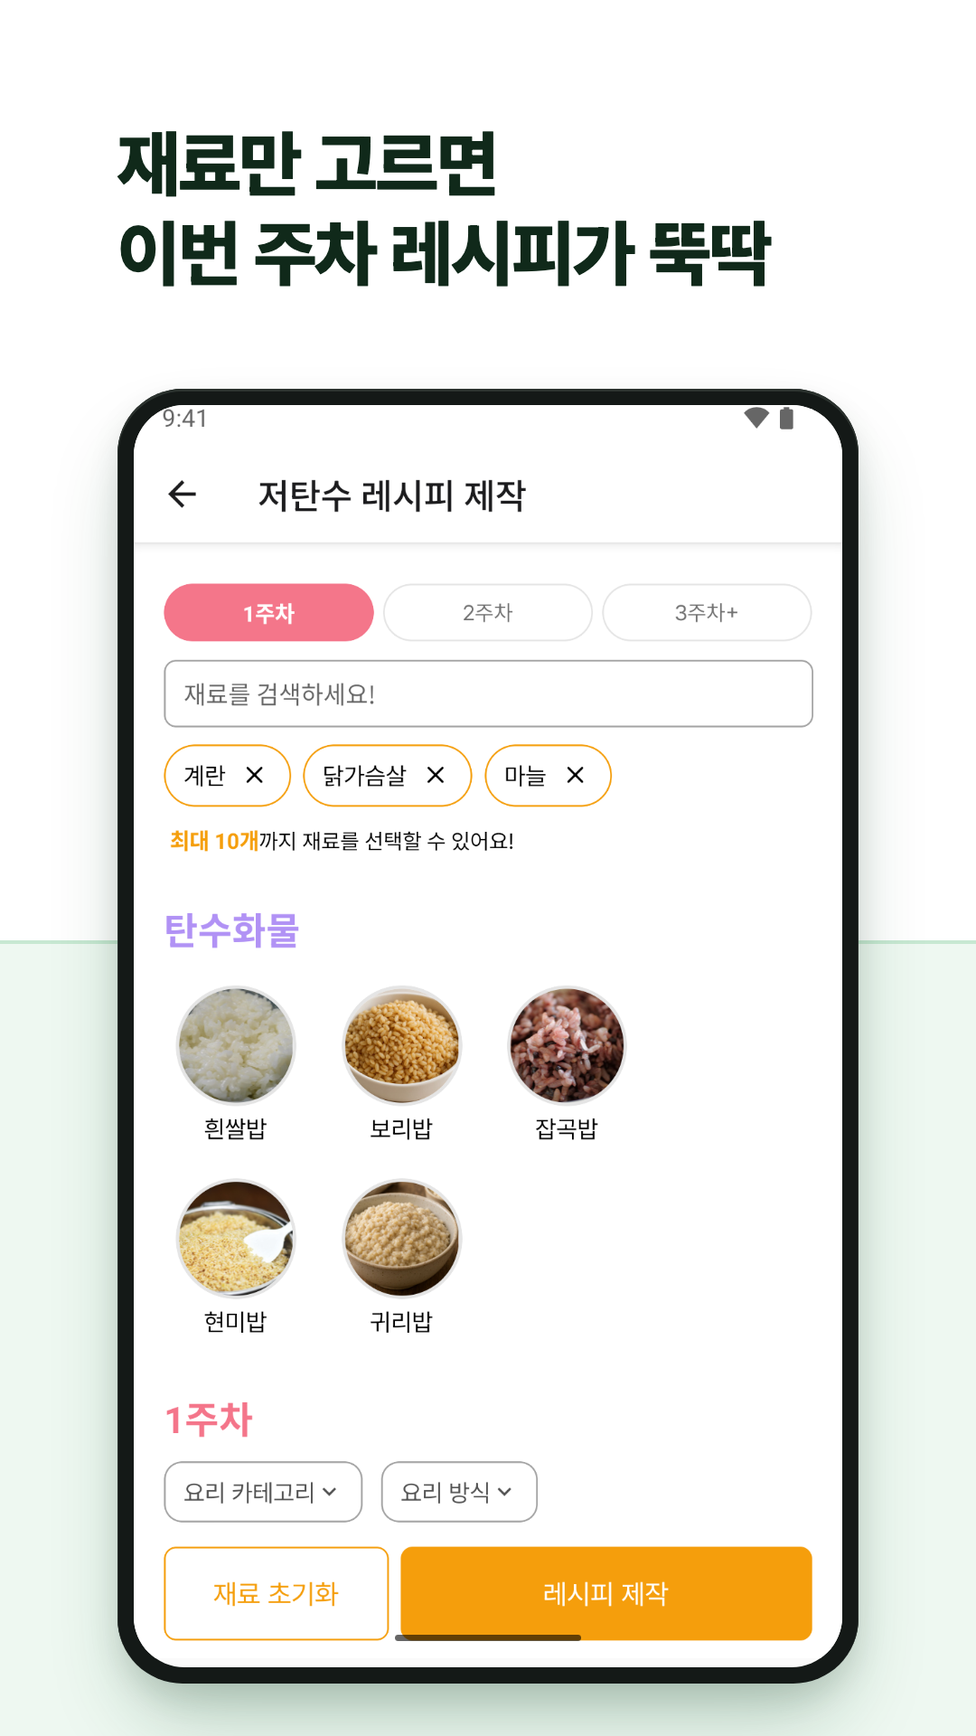
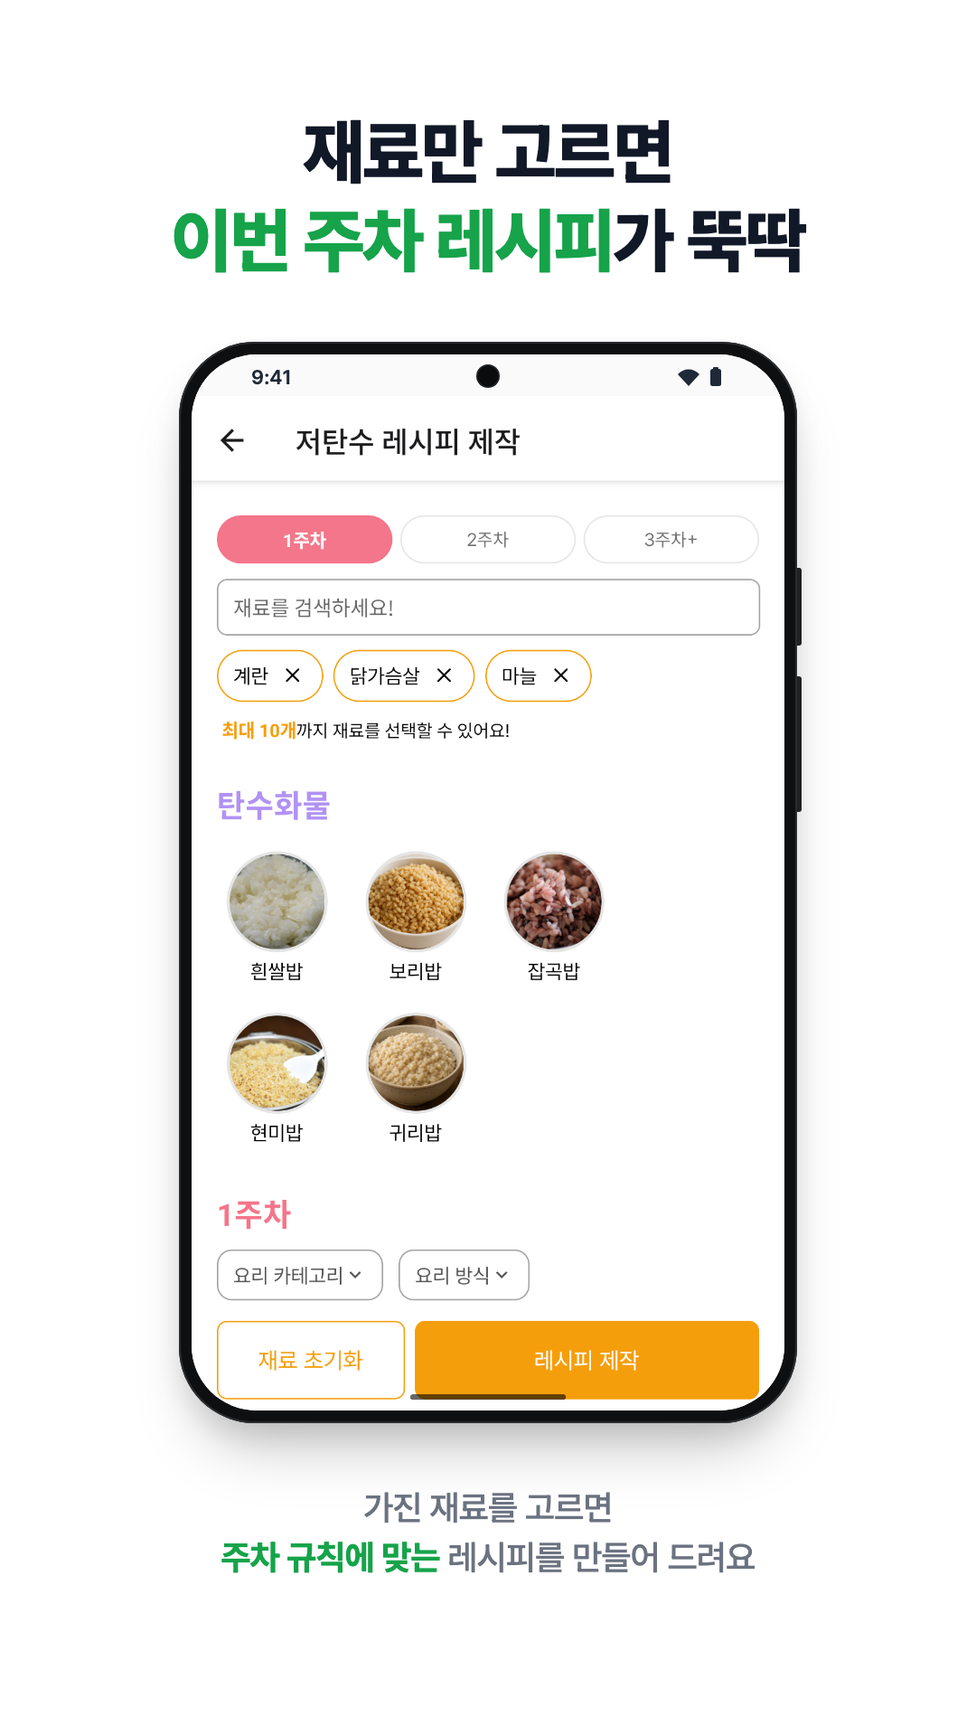
📱 플레이 스토어 휴대전화 스크린샷 6장

Changed region(s): [[0.0611, 0.0625, 0.9167, 1.0], [0.6722, 0.3438, 0.7639, 0.375], [0.6722, 0.2812, 0.7028, 0.3125]]

diff --git a/docs/store/src/phone-6.html b/docs/store/src/phone-6.html
@@ -3,20 +3,29 @@
 <title>스위치온 레시피 스크린샷 6</title>
 <style>
 @font-face{font-family:"Pretendard";src:url("PretendardVariable-Regular.ttf") format("truetype");font-weight:100 900}
-:root{--ink:#10291A;--green:#16A34A;--mint:#EEF8F1;--bezel:#141917}
+:root{--ink:#111827;--green:#16A34A;--gray:#6B7280;--bezel:#0E0F10}
 *{margin:0;padding:0;box-sizing:border-box}
 html,body{width:1080px;height:1920px;overflow:hidden;background:#fff}
-body{font-family:"Pretendard",sans-serif;position:relative;color:var(--ink)}
-.ground{position:absolute;left:0;right:0;top:1040px;bottom:0;background:var(--mint)}
-.ground::before{content:"";position:absolute;left:0;right:0;top:0;height:4px;background:var(--green);opacity:.18}
-h1{position:absolute;left:130px;right:100px;top:132px;font-size:80px;line-height:1.24;font-weight:800;letter-spacing:-.022em;word-break:keep-all}
-.phone{position:absolute;left:130px;top:430px;width:820px;height:1432px;border-radius:72px;background:var(--bezel);padding:18px;
- box-shadow:0 2px 0 1px #2b322e inset,0 50px 90px -20px rgba(16,80,40,.28),0 16px 34px rgba(0,0,0,.10)}
-.screen{width:784px;height:1396px;border-radius:56px;overflow:hidden;background:#fafafa;position:relative}
-.screen img{position:absolute;left:0;top:-8px;width:784px;height:auto;display:block}
+body{font-family:"Pretendard",sans-serif;position:relative;color:var(--ink);text-align:center}
+g{color:var(--green)}
+h1{position:absolute;left:60px;right:60px;top:120px;font-size:78px;line-height:1.26;font-weight:800;letter-spacing:-.025em;word-break:keep-all}
+.phone{position:absolute;left:198px;top:378px;width:684px;height:1196px;border-radius:84px;background:var(--bezel);padding:14px;
+ box-shadow:0 0 0 2px #2a2c2f inset,0 44px 70px -24px rgba(0,0,0,.26),0 14px 28px rgba(0,0,0,.08)}
+.btn{position:absolute;right:-5px;width:5px;background:#1f2123;border-radius:0 3px 3px 0}
+.b1{top:250px;height:86px}.b2{top:370px;height:150px}
+.screen{width:656px;height:1168px;border-radius:72px;overflow:hidden;background:#fafafa;position:relative}
+.screen img{position:absolute;left:0;top:6px;width:656px;height:auto;display:block}
+.sb{position:absolute;left:0;right:0;top:0;height:46px;background:#fafafa;display:flex;align-items:center;justify-content:space-between;padding:4px 64px 0 66px;font-size:22px;font-weight:600;color:#1f2937;letter-spacing:.01em}
+.sb svg{display:block}
+.cam{position:absolute;left:50%;top:13px;width:22px;height:22px;margin-left:-11px;border-radius:50%;background:#0b0c0d;box-shadow:0 0 0 2px #1d1f22}
+p.cap{position:absolute;left:150px;right:150px;top:1640px;font-size:38px;line-height:1.45;font-weight:500;color:var(--gray);letter-spacing:-.015em;word-break:keep-all}
+p.cap g{font-weight:700}
+.card{position:absolute;left:470px;top:1282px;width:500px;height:278px;border-radius:26px;overflow:hidden;background:#fafafa;box-shadow:0 28px 50px -16px rgba(0,0,0,.28),0 6px 16px rgba(0,0,0,.08)}
+.card img{position:absolute;left:-4px;top:-166px;width:516px;height:auto}
 </style></head>
 <body>
-<div class="ground"></div>
-<h1>몸의 변화를<br>한눈에</h1>
-<div class="phone"><div class="screen"><img src="../raw/6-records.png" alt=""></div></div>
+<h1><g>몸의 변화</g>를<br>한눈에</h1>
+<div class="phone"><span class="btn b1"></span><span class="btn b2"></span><div class="screen"><img src="../raw/6-records.png" alt=""><div class="sb"><span>9:41</span><svg width="56" height="22" viewBox="0 0 56 22"><path d="M2 8a16 16 0 0 1 24 0l-12 13z" fill="#1f2937"/><rect x="38" y="2" width="12" height="19" rx="2.5" fill="#1f2937"/><rect x="41" y="0" width="6" height="3" rx="1" fill="#1f2937"/></svg></div><span class="cam"></span></div></div>
+<div class="card"><img src="../raw/6b-calendar.png" alt=""></div>
+<p class="cap">체중 그래프와 <g>4주 완주 달력</g>으로<br>꾸준히 해 온 날을 확인해요</p>
 </body></html>

diff --git a/docs/store/src/phone-2.html b/docs/store/src/phone-2.html
@@ -3,20 +3,29 @@
 <title>스위치온 레시피 스크린샷 2</title>
 <style>
 @font-face{font-family:"Pretendard";src:url("PretendardVariable-Regular.ttf") format("truetype");font-weight:100 900}
-:root{--ink:#10291A;--green:#16A34A;--mint:#EEF8F1;--bezel:#141917}
+:root{--ink:#111827;--green:#16A34A;--gray:#6B7280;--bezel:#0E0F10}
 *{margin:0;padding:0;box-sizing:border-box}
 html,body{width:1080px;height:1920px;overflow:hidden;background:#fff}
-body{font-family:"Pretendard",sans-serif;position:relative;color:var(--ink)}
-.ground{position:absolute;left:0;right:0;top:1040px;bottom:0;background:var(--mint)}
-.ground::before{content:"";position:absolute;left:0;right:0;top:0;height:4px;background:var(--green);opacity:.18}
-h1{position:absolute;left:130px;right:100px;top:132px;font-size:80px;line-height:1.24;font-weight:800;letter-spacing:-.022em;word-break:keep-all}
-.phone{position:absolute;left:130px;top:430px;width:820px;height:1432px;border-radius:72px;background:var(--bezel);padding:18px;
- box-shadow:0 2px 0 1px #2b322e inset,0 50px 90px -20px rgba(16,80,40,.28),0 16px 34px rgba(0,0,0,.10)}
-.screen{width:784px;height:1396px;border-radius:56px;overflow:hidden;background:#fafafa;position:relative}
-.screen img{position:absolute;left:0;top:-8px;width:784px;height:auto;display:block}
+body{font-family:"Pretendard",sans-serif;position:relative;color:var(--ink);text-align:center}
+g{color:var(--green)}
+h1{position:absolute;left:60px;right:60px;top:120px;font-size:78px;line-height:1.26;font-weight:800;letter-spacing:-.025em;word-break:keep-all}
+.phone{position:absolute;left:198px;top:378px;width:684px;height:1196px;border-radius:84px;background:var(--bezel);padding:14px;
+ box-shadow:0 0 0 2px #2a2c2f inset,0 44px 70px -24px rgba(0,0,0,.26),0 14px 28px rgba(0,0,0,.08)}
+.btn{position:absolute;right:-5px;width:5px;background:#1f2123;border-radius:0 3px 3px 0}
+.b1{top:250px;height:86px}.b2{top:370px;height:150px}
+.screen{width:656px;height:1168px;border-radius:72px;overflow:hidden;background:#fafafa;position:relative}
+.screen img{position:absolute;left:0;top:6px;width:656px;height:auto;display:block}
+.sb{position:absolute;left:0;right:0;top:0;height:46px;background:#fafafa;display:flex;align-items:center;justify-content:space-between;padding:4px 64px 0 66px;font-size:22px;font-weight:600;color:#1f2937;letter-spacing:.01em}
+.sb svg{display:block}
+.cam{position:absolute;left:50%;top:13px;width:22px;height:22px;margin-left:-11px;border-radius:50%;background:#0b0c0d;box-shadow:0 0 0 2px #1d1f22}
+p.cap{position:absolute;left:150px;right:150px;top:1640px;font-size:38px;line-height:1.45;font-weight:500;color:var(--gray);letter-spacing:-.015em;word-break:keep-all}
+p.cap g{font-weight:700}
+.card{position:absolute;left:470px;top:1282px;width:500px;height:278px;border-radius:26px;overflow:hidden;background:#fafafa;box-shadow:0 28px 50px -16px rgba(0,0,0,.28),0 6px 16px rgba(0,0,0,.08)}
+.card img{position:absolute;left:-4px;top:-166px;width:516px;height:auto}
 </style></head>
 <body>
-<div class="ground"></div>
-<h1>재료만 고르면<br>이번 주차 레시피가 뚝딱</h1>
-<div class="phone"><div class="screen"><img src="../raw/2-ingredients.png" alt=""></div></div>
+<h1>재료만 고르면<br><g>이번 주차 레시피</g>가 뚝딱</h1>
+<div class="phone"><span class="btn b1"></span><span class="btn b2"></span><div class="screen"><img src="../raw/2-ingredients.png" alt=""><div class="sb"><span>9:41</span><svg width="56" height="22" viewBox="0 0 56 22"><path d="M2 8a16 16 0 0 1 24 0l-12 13z" fill="#1f2937"/><rect x="38" y="2" width="12" height="19" rx="2.5" fill="#1f2937"/><rect x="41" y="0" width="6" height="3" rx="1" fill="#1f2937"/></svg></div><span class="cam"></span></div></div>
+
+<p class="cap">가진 재료를 고르면<br><g>주차 규칙에 맞는</g> 레시피를 만들어 드려요</p>
 </body></html>

diff --git a/docs/store/src/phone-1.html b/docs/store/src/phone-1.html
@@ -3,20 +3,29 @@
 <title>스위치온 레시피 스크린샷 1</title>
 <style>
 @font-face{font-family:"Pretendard";src:url("PretendardVariable-Regular.ttf") format("truetype");font-weight:100 900}
-:root{--ink:#10291A;--green:#16A34A;--mint:#EEF8F1;--bezel:#141917}
+:root{--ink:#111827;--green:#16A34A;--gray:#6B7280;--bezel:#0E0F10}
 *{margin:0;padding:0;box-sizing:border-box}
 html,body{width:1080px;height:1920px;overflow:hidden;background:#fff}
-body{font-family:"Pretendard",sans-serif;position:relative;color:var(--ink)}
-.ground{position:absolute;left:0;right:0;top:1040px;bottom:0;background:var(--mint)}
-.ground::before{content:"";position:absolute;left:0;right:0;top:0;height:4px;background:var(--green);opacity:.18}
-h1{position:absolute;left:130px;right:100px;top:132px;font-size:80px;line-height:1.24;font-weight:800;letter-spacing:-.022em;word-break:keep-all}
-.phone{position:absolute;left:130px;top:430px;width:820px;height:1432px;border-radius:72px;background:var(--bezel);padding:18px;
- box-shadow:0 2px 0 1px #2b322e inset,0 50px 90px -20px rgba(16,80,40,.28),0 16px 34px rgba(0,0,0,.10)}
-.screen{width:784px;height:1396px;border-radius:56px;overflow:hidden;background:#fafafa;position:relative}
-.screen img{position:absolute;left:0;top:-8px;width:784px;height:auto;display:block}
+body{font-family:"Pretendard",sans-serif;position:relative;color:var(--ink);text-align:center}
+g{color:var(--green)}
+h1{position:absolute;left:60px;right:60px;top:120px;font-size:78px;line-height:1.26;font-weight:800;letter-spacing:-.025em;word-break:keep-all}
+.phone{position:absolute;left:198px;top:378px;width:684px;height:1196px;border-radius:84px;background:var(--bezel);padding:14px;
+ box-shadow:0 0 0 2px #2a2c2f inset,0 44px 70px -24px rgba(0,0,0,.26),0 14px 28px rgba(0,0,0,.08)}
+.btn{position:absolute;right:-5px;width:5px;background:#1f2123;border-radius:0 3px 3px 0}
+.b1{top:250px;height:86px}.b2{top:370px;height:150px}
+.screen{width:656px;height:1168px;border-radius:72px;overflow:hidden;background:#fafafa;position:relative}
+.screen img{position:absolute;left:0;top:6px;width:656px;height:auto;display:block}
+.sb{position:absolute;left:0;right:0;top:0;height:46px;background:#fafafa;display:flex;align-items:center;justify-content:space-between;padding:4px 64px 0 66px;font-size:22px;font-weight:600;color:#1f2937;letter-spacing:.01em}
+.sb svg{display:block}
+.cam{position:absolute;left:50%;top:13px;width:22px;height:22px;margin-left:-11px;border-radius:50%;background:#0b0c0d;box-shadow:0 0 0 2px #1d1f22}
+p.cap{position:absolute;left:150px;right:150px;top:1640px;font-size:38px;line-height:1.45;font-weight:500;color:var(--gray);letter-spacing:-.015em;word-break:keep-all}
+p.cap g{font-weight:700}
+.card{position:absolute;left:470px;top:1282px;width:500px;height:278px;border-radius:26px;overflow:hidden;background:#fafafa;box-shadow:0 28px 50px -16px rgba(0,0,0,.28),0 6px 16px rgba(0,0,0,.08)}
+.card img{position:absolute;left:-4px;top:-166px;width:516px;height:auto}
 </style></head>
 <body>
-<div class="ground"></div>
-<h1>스위치온 4주,<br>오늘 할 일만 따라오세요</h1>
-<div class="phone"><div class="screen"><img src="../raw/1-today.png" alt=""></div></div>
+<h1>스위치온 4주,<br><g>오늘 할 일</g>만 따라오세요</h1>
+<div class="phone"><span class="btn b1"></span><span class="btn b2"></span><div class="screen"><img src="../raw/1-today.png" alt=""><div class="sb"><span>9:41</span><svg width="56" height="22" viewBox="0 0 56 22"><path d="M2 8a16 16 0 0 1 24 0l-12 13z" fill="#1f2937"/><rect x="38" y="2" width="12" height="19" rx="2.5" fill="#1f2937"/><rect x="41" y="0" width="6" height="3" rx="1" fill="#1f2937"/></svg></div><span class="cam"></span></div></div>
+
+<p class="cap">프로틴쉐이크부터 체중 기록까지<br><g>하루 할 일</g>을 한 화면에서 챙겨요</p>
 </body></html>

diff --git a/docs/store/src/phone-4.html b/docs/store/src/phone-4.html
@@ -3,20 +3,29 @@
 <title>스위치온 레시피 스크린샷 4</title>
 <style>
 @font-face{font-family:"Pretendard";src:url("PretendardVariable-Regular.ttf") format("truetype");font-weight:100 900}
-:root{--ink:#10291A;--green:#16A34A;--mint:#EEF8F1;--bezel:#141917}
+:root{--ink:#111827;--green:#16A34A;--gray:#6B7280;--bezel:#0E0F10}
 *{margin:0;padding:0;box-sizing:border-box}
 html,body{width:1080px;height:1920px;overflow:hidden;background:#fff}
-body{font-family:"Pretendard",sans-serif;position:relative;color:var(--ink)}
-.ground{position:absolute;left:0;right:0;top:1040px;bottom:0;background:var(--mint)}
-.ground::before{content:"";position:absolute;left:0;right:0;top:0;height:4px;background:var(--green);opacity:.18}
-h1{position:absolute;left:130px;right:100px;top:132px;font-size:80px;line-height:1.24;font-weight:800;letter-spacing:-.022em;word-break:keep-all}
-.phone{position:absolute;left:130px;top:430px;width:820px;height:1432px;border-radius:72px;background:var(--bezel);padding:18px;
- box-shadow:0 2px 0 1px #2b322e inset,0 50px 90px -20px rgba(16,80,40,.28),0 16px 34px rgba(0,0,0,.10)}
-.screen{width:784px;height:1396px;border-radius:56px;overflow:hidden;background:#fafafa;position:relative}
-.screen img{position:absolute;left:0;top:-8px;width:784px;height:auto;display:block}
+body{font-family:"Pretendard",sans-serif;position:relative;color:var(--ink);text-align:center}
+g{color:var(--green)}
+h1{position:absolute;left:60px;right:60px;top:120px;font-size:78px;line-height:1.26;font-weight:800;letter-spacing:-.025em;word-break:keep-all}
+.phone{position:absolute;left:198px;top:378px;width:684px;height:1196px;border-radius:84px;background:var(--bezel);padding:14px;
+ box-shadow:0 0 0 2px #2a2c2f inset,0 44px 70px -24px rgba(0,0,0,.26),0 14px 28px rgba(0,0,0,.08)}
+.btn{position:absolute;right:-5px;width:5px;background:#1f2123;border-radius:0 3px 3px 0}
+.b1{top:250px;height:86px}.b2{top:370px;height:150px}
+.screen{width:656px;height:1168px;border-radius:72px;overflow:hidden;background:#fafafa;position:relative}
+.screen img{position:absolute;left:0;top:6px;width:656px;height:auto;display:block}
+.sb{position:absolute;left:0;right:0;top:0;height:46px;background:#fafafa;display:flex;align-items:center;justify-content:space-between;padding:4px 64px 0 66px;font-size:22px;font-weight:600;color:#1f2937;letter-spacing:.01em}
+.sb svg{display:block}
+.cam{position:absolute;left:50%;top:13px;width:22px;height:22px;margin-left:-11px;border-radius:50%;background:#0b0c0d;box-shadow:0 0 0 2px #1d1f22}
+p.cap{position:absolute;left:150px;right:150px;top:1640px;font-size:38px;line-height:1.45;font-weight:500;color:var(--gray);letter-spacing:-.015em;word-break:keep-all}
+p.cap g{font-weight:700}
+.card{position:absolute;left:470px;top:1282px;width:500px;height:278px;border-radius:26px;overflow:hidden;background:#fafafa;box-shadow:0 28px 50px -16px rgba(0,0,0,.28),0 6px 16px rgba(0,0,0,.08)}
+.card img{position:absolute;left:-4px;top:-166px;width:516px;height:auto}
 </style></head>
 <body>
-<div class="ground"></div>
-<h1>먹어도 될까?<br>사진 한 장이면 알려줘요</h1>
-<div class="phone"><div class="screen"><img src="../raw/4-food-check.png" alt=""></div></div>
+<h1>먹어도 될까?<br><g>사진 한 장</g>이면 알려줘요</h1>
+<div class="phone"><span class="btn b1"></span><span class="btn b2"></span><div class="screen"><img src="../raw/4-food-check.png" alt=""><div class="sb"><span>9:41</span><svg width="56" height="22" viewBox="0 0 56 22"><path d="M2 8a16 16 0 0 1 24 0l-12 13z" fill="#1f2937"/><rect x="38" y="2" width="12" height="19" rx="2.5" fill="#1f2937"/><rect x="41" y="0" width="6" height="3" rx="1" fill="#1f2937"/></svg></div><span class="cam"></span></div></div>
+
+<p class="cap">음식 사진이나 이름으로<br><g>점수와 이유</g>, 대신 먹을 음식까지</p>
 </body></html>

diff --git a/docs/store/src/phone-5.html b/docs/store/src/phone-5.html
@@ -3,20 +3,29 @@
 <title>스위치온 레시피 스크린샷 5</title>
 <style>
 @font-face{font-family:"Pretendard";src:url("PretendardVariable-Regular.ttf") format("truetype");font-weight:100 900}
-:root{--ink:#10291A;--green:#16A34A;--mint:#EEF8F1;--bezel:#141917}
+:root{--ink:#111827;--green:#16A34A;--gray:#6B7280;--bezel:#0E0F10}
 *{margin:0;padding:0;box-sizing:border-box}
 html,body{width:1080px;height:1920px;overflow:hidden;background:#fff}
-body{font-family:"Pretendard",sans-serif;position:relative;color:var(--ink)}
-.ground{position:absolute;left:0;right:0;top:1040px;bottom:0;background:var(--mint)}
-.ground::before{content:"";position:absolute;left:0;right:0;top:0;height:4px;background:var(--green);opacity:.18}
-h1{position:absolute;left:130px;right:100px;top:132px;font-size:80px;line-height:1.24;font-weight:800;letter-spacing:-.022em;word-break:keep-all}
-.phone{position:absolute;left:130px;top:430px;width:820px;height:1432px;border-radius:72px;background:var(--bezel);padding:18px;
- box-shadow:0 2px 0 1px #2b322e inset,0 50px 90px -20px rgba(16,80,40,.28),0 16px 34px rgba(0,0,0,.10)}
-.screen{width:784px;height:1396px;border-radius:56px;overflow:hidden;background:#fafafa;position:relative}
-.screen img{position:absolute;left:0;top:-8px;width:784px;height:auto;display:block}
+body{font-family:"Pretendard",sans-serif;position:relative;color:var(--ink);text-align:center}
+g{color:var(--green)}
+h1{position:absolute;left:60px;right:60px;top:120px;font-size:78px;line-height:1.26;font-weight:800;letter-spacing:-.025em;word-break:keep-all}
+.phone{position:absolute;left:198px;top:378px;width:684px;height:1196px;border-radius:84px;background:var(--bezel);padding:14px;
+ box-shadow:0 0 0 2px #2a2c2f inset,0 44px 70px -24px rgba(0,0,0,.26),0 14px 28px rgba(0,0,0,.08)}
+.btn{position:absolute;right:-5px;width:5px;background:#1f2123;border-radius:0 3px 3px 0}
+.b1{top:250px;height:86px}.b2{top:370px;height:150px}
+.screen{width:656px;height:1168px;border-radius:72px;overflow:hidden;background:#fafafa;position:relative}
+.screen img{position:absolute;left:0;top:6px;width:656px;height:auto;display:block}
+.sb{position:absolute;left:0;right:0;top:0;height:46px;background:#fafafa;display:flex;align-items:center;justify-content:space-between;padding:4px 64px 0 66px;font-size:22px;font-weight:600;color:#1f2937;letter-spacing:.01em}
+.sb svg{display:block}
+.cam{position:absolute;left:50%;top:13px;width:22px;height:22px;margin-left:-11px;border-radius:50%;background:#0b0c0d;box-shadow:0 0 0 2px #1d1f22}
+p.cap{position:absolute;left:150px;right:150px;top:1640px;font-size:38px;line-height:1.45;font-weight:500;color:var(--gray);letter-spacing:-.015em;word-break:keep-all}
+p.cap g{font-weight:700}
+.card{position:absolute;left:470px;top:1282px;width:500px;height:278px;border-radius:26px;overflow:hidden;background:#fafafa;box-shadow:0 28px 50px -16px rgba(0,0,0,.28),0 6px 16px rgba(0,0,0,.08)}
+.card img{position:absolute;left:-4px;top:-166px;width:516px;height:auto}
 </style></head>
 <body>
-<div class="ground"></div>
-<h1>한 주를 정리해<br>다음 주 할 일까지</h1>
-<div class="phone"><div class="screen"><img src="../raw/5-weekly-report.png" alt=""></div></div>
+<h1>한 주를 정리해<br><g>다음 주 할 일</g>까지</h1>
+<div class="phone"><span class="btn b1"></span><span class="btn b2"></span><div class="screen"><img src="../raw/5-weekly-report.png" alt=""><div class="sb"><span>9:41</span><svg width="56" height="22" viewBox="0 0 56 22"><path d="M2 8a16 16 0 0 1 24 0l-12 13z" fill="#1f2937"/><rect x="38" y="2" width="12" height="19" rx="2.5" fill="#1f2937"/><rect x="41" y="0" width="6" height="3" rx="1" fill="#1f2937"/></svg></div><span class="cam"></span></div></div>
+
+<p class="cap">할 일·단식·체중을 모아<br><g>주간 리포트</g>로 정리해 드려요</p>
 </body></html>

diff --git a/docs/store/src/phone-3.html b/docs/store/src/phone-3.html
@@ -3,20 +3,29 @@
 <title>스위치온 레시피 스크린샷 3</title>
 <style>
 @font-face{font-family:"Pretendard";src:url("PretendardVariable-Regular.ttf") format("truetype");font-weight:100 900}
-:root{--ink:#10291A;--green:#16A34A;--mint:#EEF8F1;--bezel:#141917}
+:root{--ink:#111827;--green:#16A34A;--gray:#6B7280;--bezel:#0E0F10}
 *{margin:0;padding:0;box-sizing:border-box}
 html,body{width:1080px;height:1920px;overflow:hidden;background:#fff}
-body{font-family:"Pretendard",sans-serif;position:relative;color:var(--ink)}
-.ground{position:absolute;left:0;right:0;top:1040px;bottom:0;background:var(--mint)}
-.ground::before{content:"";position:absolute;left:0;right:0;top:0;height:4px;background:var(--green);opacity:.18}
-h1{position:absolute;left:130px;right:100px;top:132px;font-size:80px;line-height:1.24;font-weight:800;letter-spacing:-.022em;word-break:keep-all}
-.phone{position:absolute;left:130px;top:430px;width:820px;height:1432px;border-radius:72px;background:var(--bezel);padding:18px;
- box-shadow:0 2px 0 1px #2b322e inset,0 50px 90px -20px rgba(16,80,40,.28),0 16px 34px rgba(0,0,0,.10)}
-.screen{width:784px;height:1396px;border-radius:56px;overflow:hidden;background:#fafafa;position:relative}
-.screen img{position:absolute;left:0;top:-8px;width:784px;height:auto;display:block}
+body{font-family:"Pretendard",sans-serif;position:relative;color:var(--ink);text-align:center}
+g{color:var(--green)}
+h1{position:absolute;left:60px;right:60px;top:120px;font-size:78px;line-height:1.26;font-weight:800;letter-spacing:-.025em;word-break:keep-all}
+.phone{position:absolute;left:198px;top:378px;width:684px;height:1196px;border-radius:84px;background:var(--bezel);padding:14px;
+ box-shadow:0 0 0 2px #2a2c2f inset,0 44px 70px -24px rgba(0,0,0,.26),0 14px 28px rgba(0,0,0,.08)}
+.btn{position:absolute;right:-5px;width:5px;background:#1f2123;border-radius:0 3px 3px 0}
+.b1{top:250px;height:86px}.b2{top:370px;height:150px}
+.screen{width:656px;height:1168px;border-radius:72px;overflow:hidden;background:#fafafa;position:relative}
+.screen img{position:absolute;left:0;top:6px;width:656px;height:auto;display:block}
+.sb{position:absolute;left:0;right:0;top:0;height:46px;background:#fafafa;display:flex;align-items:center;justify-content:space-between;padding:4px 64px 0 66px;font-size:22px;font-weight:600;color:#1f2937;letter-spacing:.01em}
+.sb svg{display:block}
+.cam{position:absolute;left:50%;top:13px;width:22px;height:22px;margin-left:-11px;border-radius:50%;background:#0b0c0d;box-shadow:0 0 0 2px #1d1f22}
+p.cap{position:absolute;left:150px;right:150px;top:1640px;font-size:38px;line-height:1.45;font-weight:500;color:var(--gray);letter-spacing:-.015em;word-break:keep-all}
+p.cap g{font-weight:700}
+.card{position:absolute;left:470px;top:1282px;width:500px;height:278px;border-radius:26px;overflow:hidden;background:#fafafa;box-shadow:0 28px 50px -16px rgba(0,0,0,.28),0 6px 16px rgba(0,0,0,.08)}
+.card img{position:absolute;left:-4px;top:-166px;width:516px;height:auto}
 </style></head>
 <body>
-<div class="ground"></div>
-<h1>김치찌개도<br>스위치온식으로</h1>
-<div class="phone"><div class="screen"><img src="../raw/3-by-name.png" alt=""></div></div>
+<h1>김치찌개도<br><g>스위치온식</g>으로</h1>
+<div class="phone"><span class="btn b1"></span><span class="btn b2"></span><div class="screen"><img src="../raw/3-by-name.png" alt=""><div class="sb"><span>9:41</span><svg width="56" height="22" viewBox="0 0 56 22"><path d="M2 8a16 16 0 0 1 24 0l-12 13z" fill="#1f2937"/><rect x="38" y="2" width="12" height="19" rx="2.5" fill="#1f2937"/><rect x="41" y="0" width="6" height="3" rx="1" fill="#1f2937"/></svg></div><span class="cam"></span></div></div>
+
+<p class="cap">먹고 싶은 음식 이름만 적으면<br><g>저탄수·무탄수</g> 레시피로 바꿔 드려요</p>
 </body></html>
